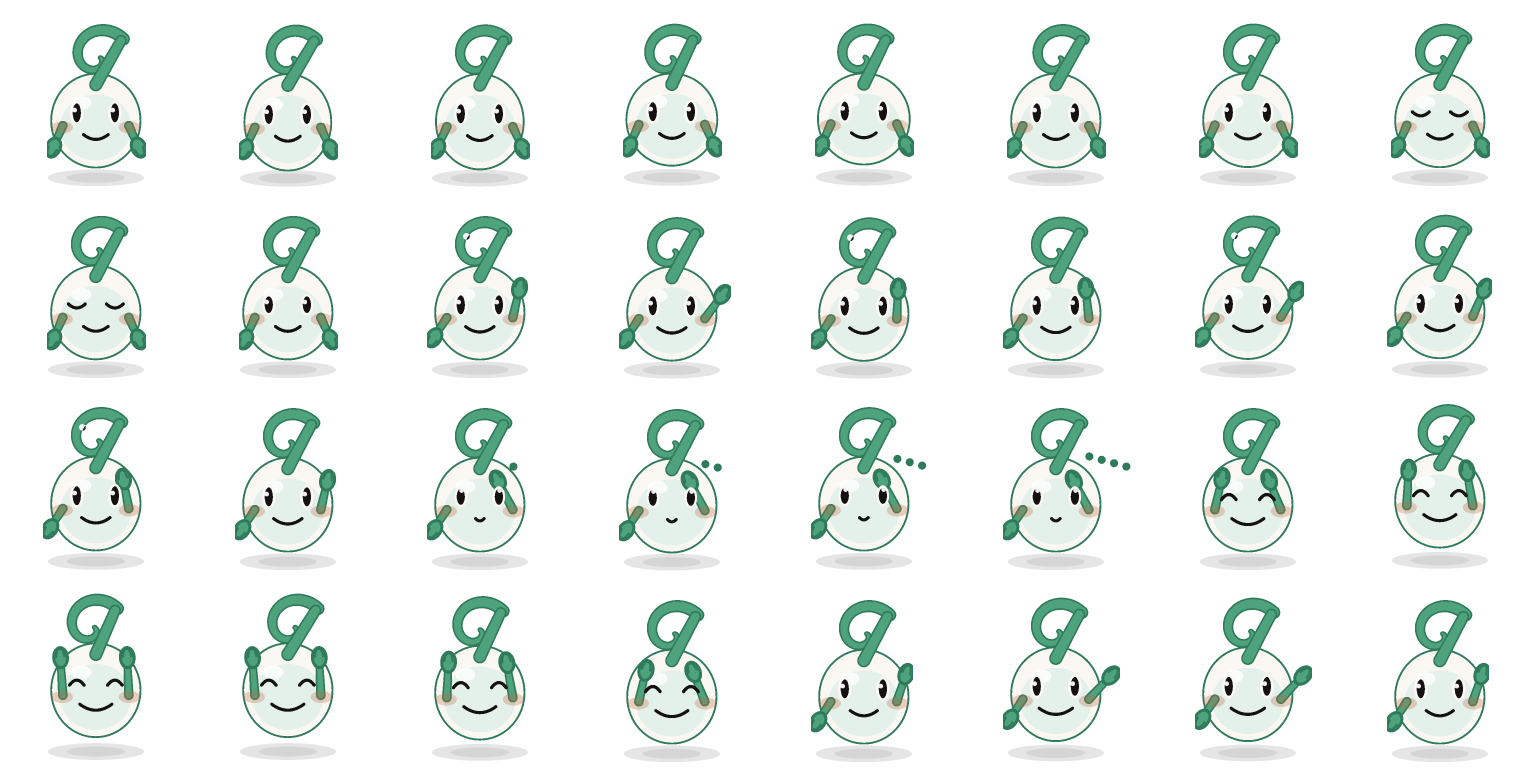
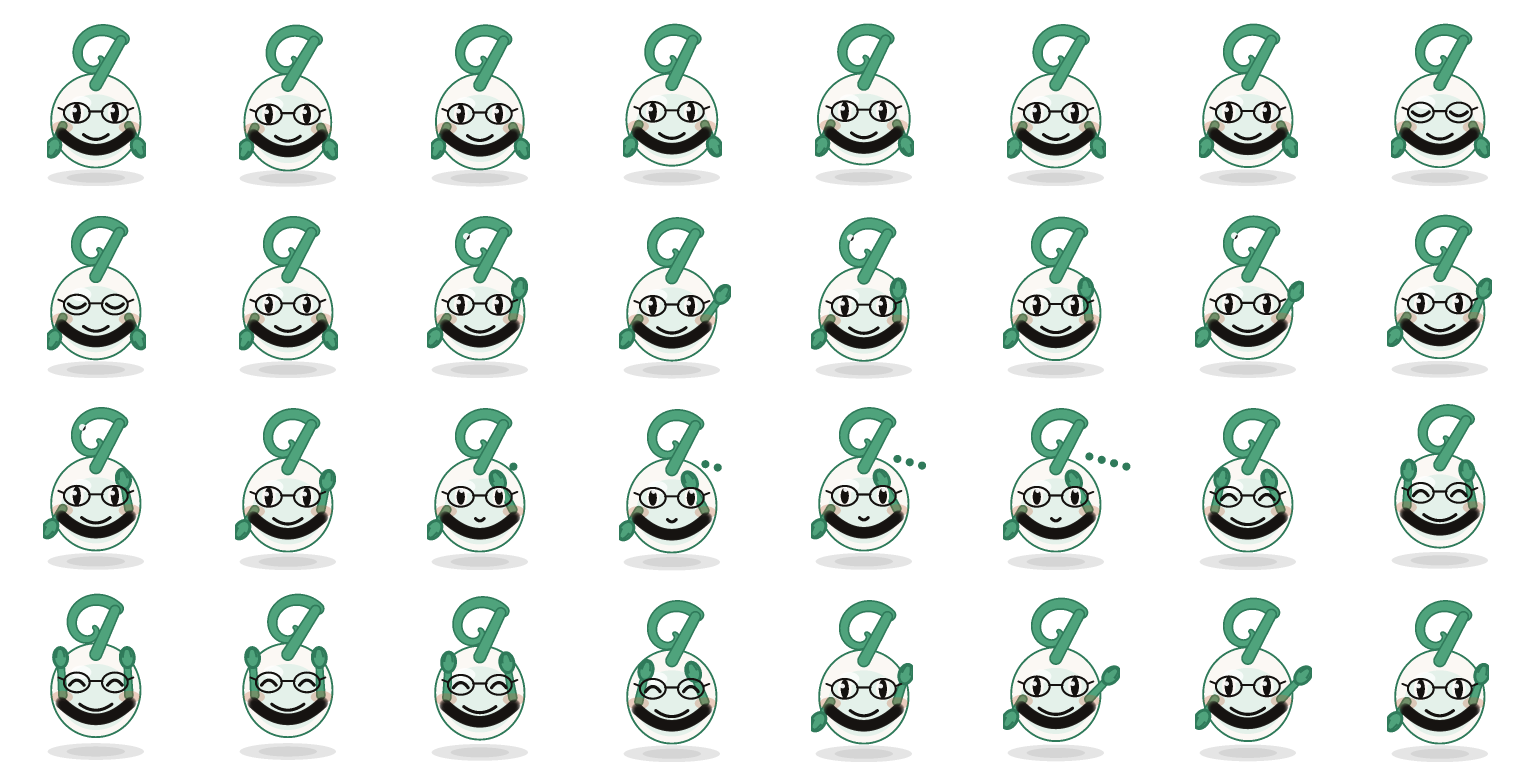
Put the beard and glasses in the sprite atlas, which is what actually renders

diff --git a/tool/generate_assets.py b/tool/generate_assets.py
@@ -395,6 +395,22 @@ def quad(x0, y0, cx, cy, x1, y1, steps=24):
     return out
 
 
+def ellipse_pts(cx, cy, rx, ry, steps=40):
+    """Points around an ellipse, first point repeated so `stroke` closes it.
+
+    Used for the spectacle rims. A filled ellipse would have to be punched back
+    out again, and that hole would swallow the eye underneath it; a ring drawn
+    as a stroked loop leaves the face showing through untouched.
+    """
+    pts = [(cx + rx * math.cos(2 * math.pi * i / steps),
+            cy + ry * math.sin(2 * math.pi * i / steps)) for i in range(steps + 1)]
+    out = []
+    for x, y in pts:
+        out.append(x)
+        out.append(y)
+    return out
+
+
 def spiral(cx, cy, r0, growth, start, end, steps=90):
     """Archimedean spiral. This is the koru: the unfurling fern frond that gives
     the product its name."""
@@ -627,12 +643,38 @@ def draw_koru(r, pose, canvas=CELL, scale=CHAR_SCALE):
     r.ellipse(body_cx - 30 * s, eye_y + 13 * s, 9.5 * s, 5.5 * s, CLAY, 0.30)
     r.ellipse(body_cx + 30 * s, eye_y + 13 * s, 9.5 * s, 5.5 * s, CLAY, 0.30)
 
+    # Beard, laid down under the eyes so the spectacles and the eyes sit on top
+    # of it rather than the other way round. It is a soft band along the jaw
+    # rather than a fill: a filled shape would cover the mouth, and a character
+    # whose smile has been swallowed by its own beard reads as a smudge.
+    beard = quad(body_cx - 31 * s, body_cy + 11 * s, body_cx,
+                 body_cy + 41 * s, body_cx + 31 * s, body_cy + 11 * s)
+    r.stroke(beard, [10.5 * s] * (len(beard) // 2), INK, 0.17)
+    r.stroke(beard, [5.0 * s] * (len(beard) // 2), INK, 0.13)
+
     mouth_y = body_cy + 14 * s
     spread = 11 * s * pose.mouth_smile
     depth = 7 * s * pose.mouth_smile
     mouth = quad(body_cx - spread, mouth_y - 1.5 * s, body_cx, mouth_y + depth,
                  body_cx + spread, mouth_y - 1.5 * s)
     r.stroke(mouth, [2.8 * s] * (len(mouth) // 2), INK)
+
+    # Spectacles. Drawn after the eyes so the rims read as sitting on the face,
+    # and as rings rather than lenses so the eye stays visible behind them, which
+    # is the whole point of drawing a character in glasses rather than adding two
+    # dark ovals and hoping.
+    for ex in (eye_l, eye_r):
+        r.stroke(
+            ellipse_pts(ex, eye_y, 11.5 * s, 8.8 * s),
+            [1.9 * s] * ((len(ellipse_pts(ex, eye_y, 11.5 * s, 8.8 * s))) // 2),
+            INK, 0.80,
+        )
+    r.stroke_line(body_cx - 6.0 * s, eye_y - 1.2 * s, body_cx + 6.0 * s,
+                  eye_y - 1.2 * s, 1.9 * s, INK, 0.80)
+    for side in (-1, 1):
+        r.stroke_line(body_cx + side * 28.5 * s, eye_y - 2.4 * s,
+                      body_cx + side * 33.5 * s, eye_y - 4.4 * s,
+                      1.8 * s, INK, 0.72)
 
     if pose.think_dots > 0:
         for i in range(pose.think_dots):
